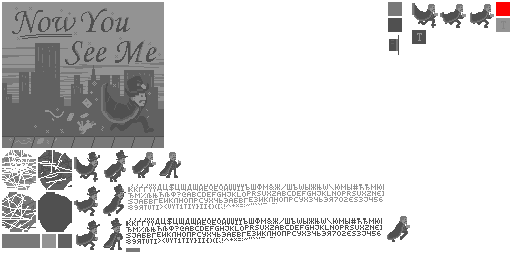
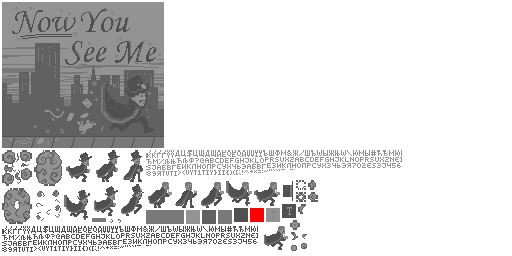
Vanish particles Closes #52

Changed region(s): [[0.0, 0.5625, 0.8125, 1.0], [0.75, 0.0, 1.0, 0.2188]]

diff --git a/Assets/Resources/Scripts/Player/VanishParticle.cs b/Assets/Resources/Scripts/Player/VanishParticle.cs
@@ -1,0 +1,71 @@
+using System;
+using System.Collections.Generic;
+using System.Linq;
+using System.Text;
+using UnityEngine;
+
+public class VanishParticle : FAnimatedSprite
+{
+    const int MAX_PARTICLES = 100;
+    public static VanishParticle getParticle()
+    {
+        if (particleList == null)
+            particleList = new VanishParticle[MAX_PARTICLES];
+        for (int x = 0; x < particleList.Length; x++)
+        {
+            if (particleList[x] == null)
+            {
+                VanishParticle p = new VanishParticle();
+                particleList[x] = p;
+                return p;
+            }
+            else if (!particleList[x].isActive)
+            {
+                return particleList[x];
+            }
+        }
+        return particleList[RXRandom.Int(MAX_PARTICLES)];
+        
+    }
+    private static VanishParticle[] particleList;
+    Vector2 vel;
+    float rot;
+    Vector2 accel;
+    int animRandom = 180;
+    int animBaseSpeed = 100;
+    public bool isActive = false;
+    private VanishParticle()
+        : base("vanishParticle0" + (RXRandom.Int(3) + 1))
+    {
+        this.isVisible = false;
+        this.addAnimation(new FAnimation("active", new int[] { 1, 2, 3, 4 }, animBaseSpeed + (int)(RXRandom.Float() * animRandom), false)); 
+    }
+
+    public void activate(Vector2 pos, Vector2 vel, Vector2 accel, float rot)
+    {
+        this.isVisible = true;
+        this.isActive = true;
+        this.vel = vel;
+        this.SetPosition(pos);
+        this.rot = rot;
+        this.accel = accel;
+        this.play("active", true);
+    }
+
+    public override void Update()
+    {
+        this.x += vel.x * Time.deltaTime;
+        this.y += vel.y * Time.deltaTime;
+        vel += accel * Time.deltaTime;
+
+        this.rotation += rot * Time.deltaTime;
+
+        if (this.IsStopped)
+        {
+            this.RemoveFromContainer();
+            this.isActive = false;
+        }
+
+        base.Update();
+    }
+}

diff --git a/Assets/Resources/Scripts/Player/VanishCloud.cs b/Assets/Resources/Scripts/Player/VanishCloud.cs
@@ -2,26 +2,45 @@
 using System.Collections.Generic;
 using System.Linq;
 using System.Text;
+using UnityEngine;
 
 public class VanishCloud : FContainer
 {
     FAnimatedSprite cloudSprite;
-
+    float particleXSpeed = 30;
+    float particleYSpeed = 30;
+    int numParticles = 20;
+    bool hasAddedParticles = false;
     public VanishCloud()
     {
         cloudSprite = new FAnimatedSprite("vanishCloud");
-        cloudSprite.addAnimation(new FAnimation("disappear", new int[] { 0, 1, 2, 3 }, 100, false));
+        cloudSprite.addAnimation(new FAnimation("disappear", new int[] { 1, 2, 3, 4 }, 100, false));
         this.AddChild(cloudSprite);
+
     }
 
+    float particleDist = 15;
     public override void HandleAddedToContainer(FContainer container)
     {
         Futile.instance.SignalUpdate += Update;
         base.HandleAddedToContainer(container);
+        
     }
 
     private void Update()
     {
+        if (!hasAddedParticles)
+        {
+            for (int x = 0; x < numParticles; x++)
+            {
+                VanishParticle particle = VanishParticle.getParticle();
+                float angle = (RXRandom.Float() * Mathf.PI * 2);
+                Vector2 pos = this.GetPosition() + new Vector2(Mathf.Cos(angle) * particleDist, Mathf.Sin(angle) * particleDist);
+                particle.activate(pos, new Vector2(RXRandom.Float() * particleXSpeed * 2 - particleXSpeed, RXRandom.Float() * particleYSpeed * 2 - particleYSpeed), Vector2.zero, 360);
+                this.container.AddChild(particle);
+            }
+            hasAddedParticles = true;
+        }
         if (cloudSprite.IsStopped)
         {
             this.RemoveFromContainer();
